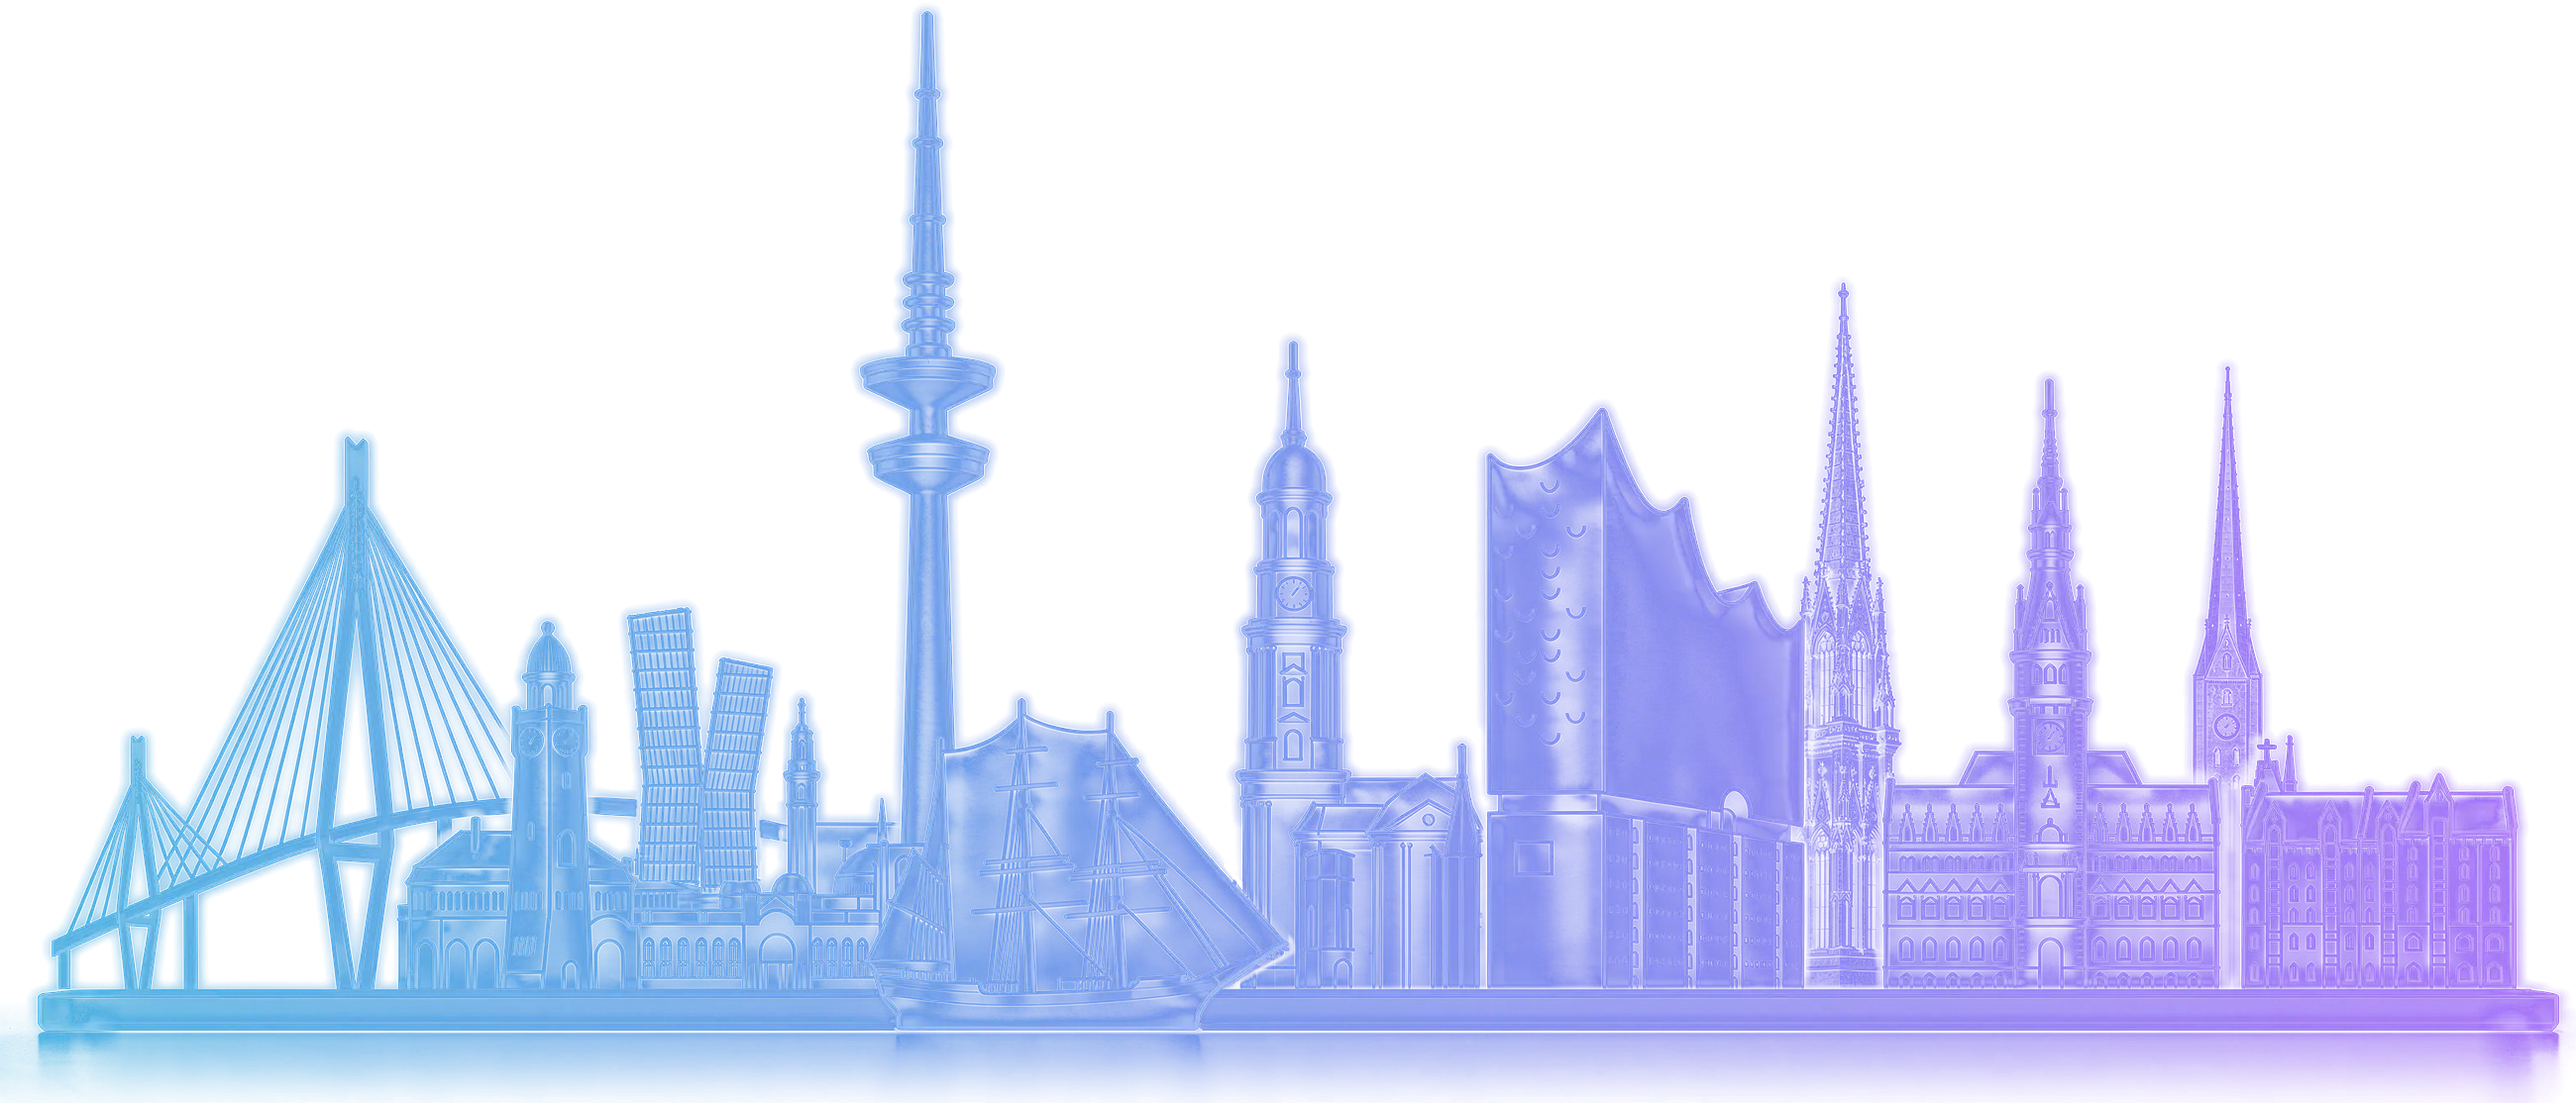
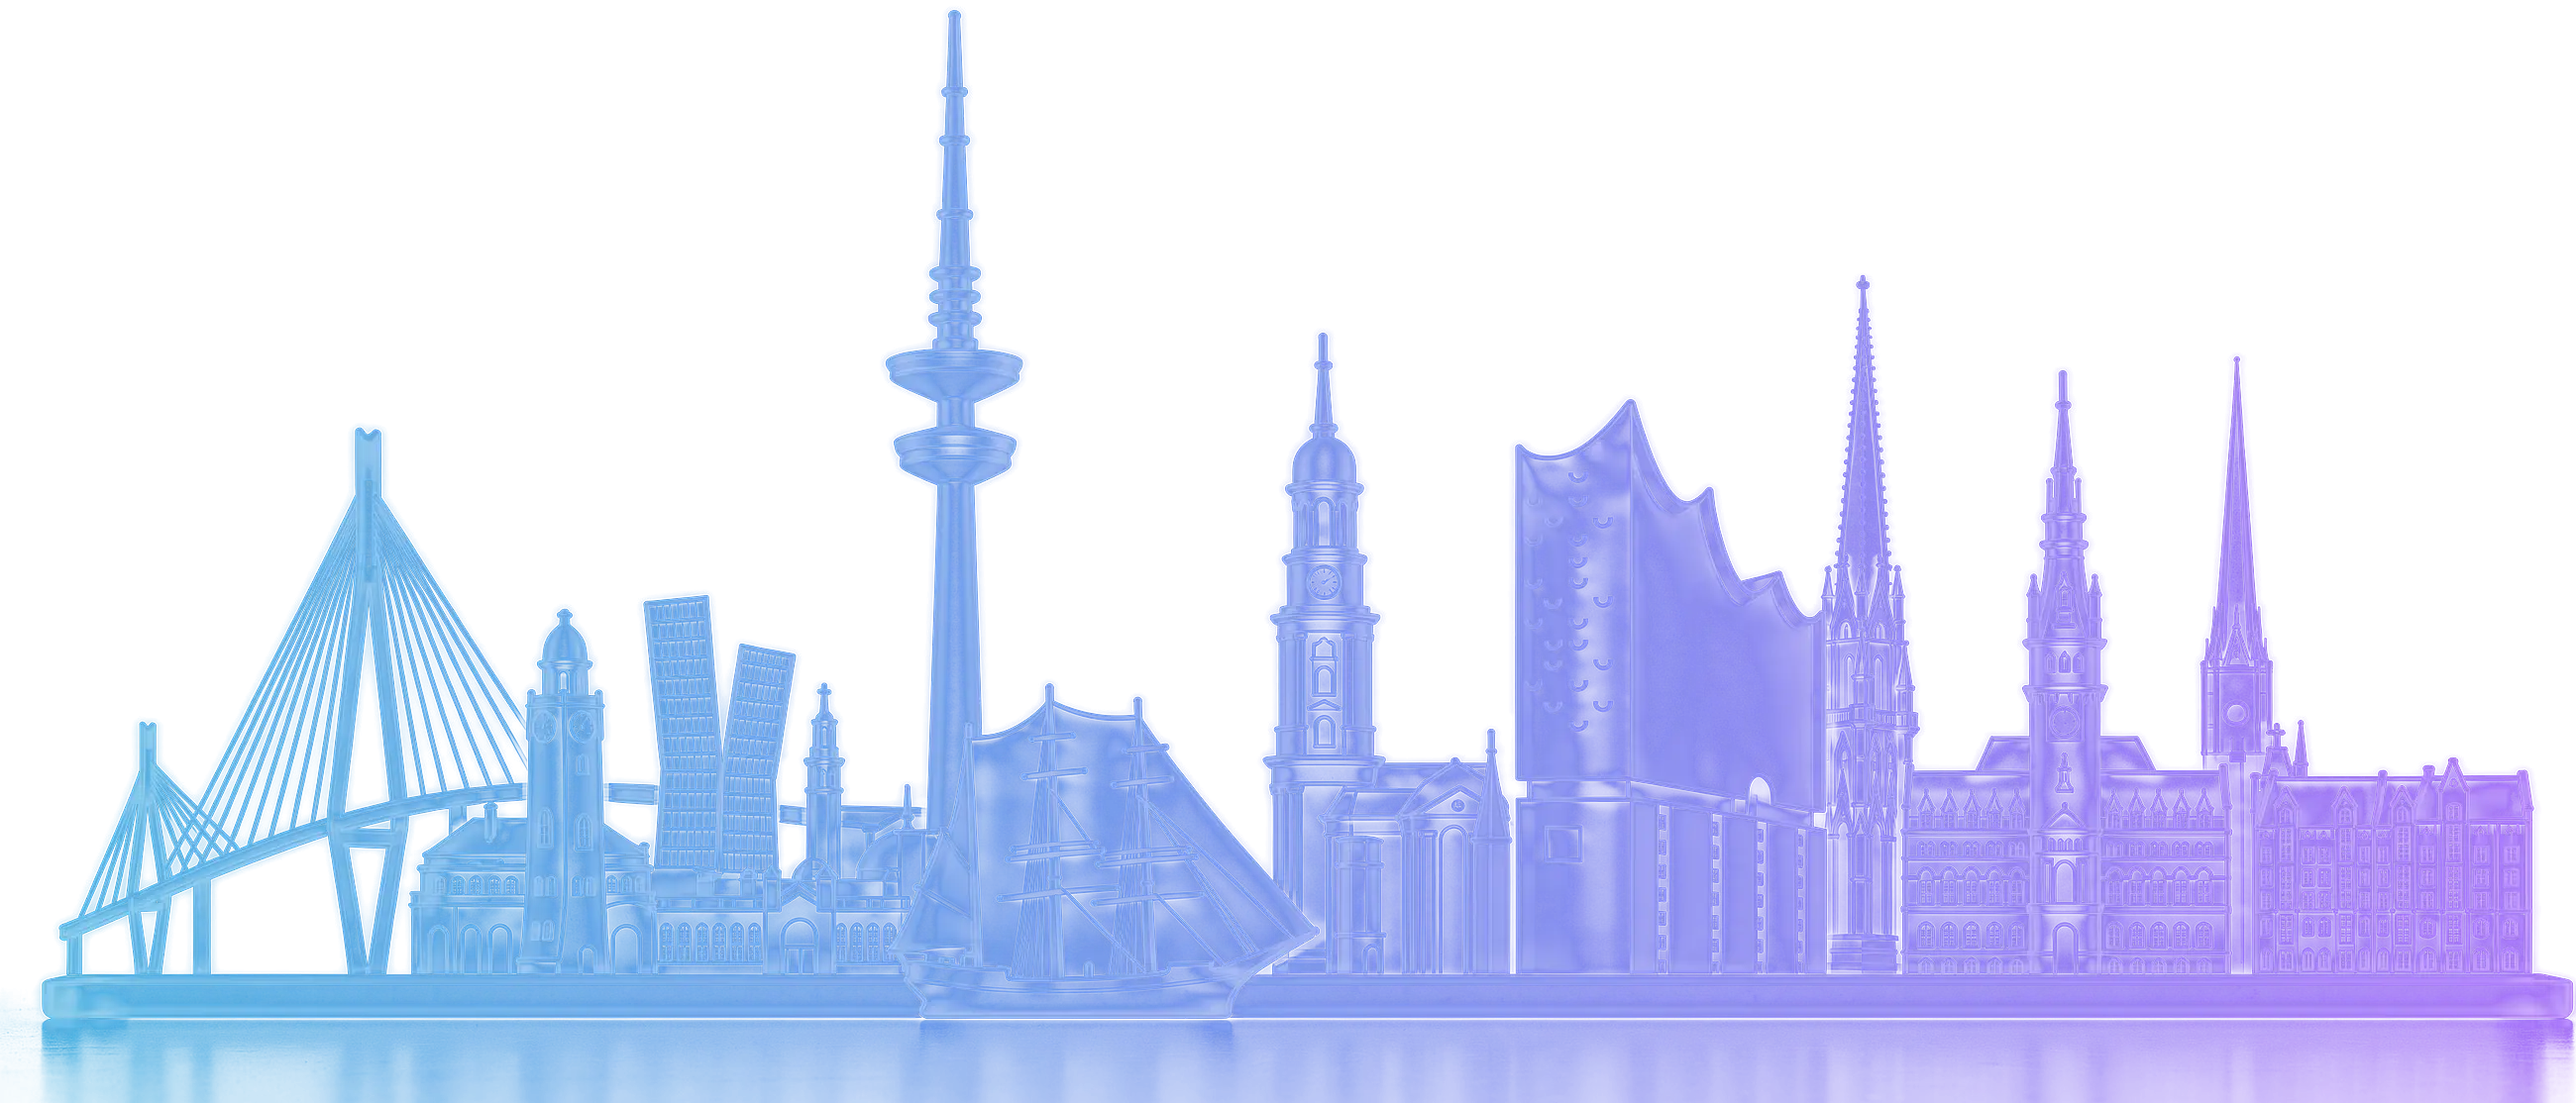
feat(lavender): skyline rendered in one pass from one uniform reference
No hand-made cuts or repairs in the picture any more: the previous
state, softened to one level of detail, was rendered once and taken as
it is.

Claude-Session: https://claude.ai/code/session_01HutgGfgwiiTnT4X53NFX4e

Changed region(s): [[0.0, 0.0, 1.0, 1.0]]

diff --git a/src/components/lavender/HamburgGlass.tsx b/src/components/lavender/HamburgGlass.tsx
@@ -29,16 +29,16 @@ import { cn } from '@/components/ui/utils';
 /** Landmarks left to right: centre x, half width, light centre y, light height (fractions of the image). */
 // From west to east, as the city lies along the Elbe.
 const LANDMARKS = [
-  { x: 0.118, half: 0.09, y: 0.68 }, // Köhlbrandbrücke
-  { x: 0.245, half: 0.09, y: 0.78 }, // Landungsbrücken, dahinter die Tanzenden Türme
-  { x: 0.36, half: 0.03, y: 0.45 }, // Fernsehturm
-  { x: 0.419, half: 0.082, y: 0.78 }, // Rickmer Rickmers
-  { x: 0.52, half: 0.05, y: 0.6 }, // Michel
-  { x: 0.639, half: 0.063, y: 0.64 }, // Elbphilharmonie
-  { x: 0.716, half: 0.03, y: 0.55 }, // St. Nikolai
-  { x: 0.796, half: 0.065, y: 0.64 }, // Rathaus
-  { x: 0.864, half: 0.03, y: 0.55 }, // St. Petri
-  { x: 0.924, half: 0.055, y: 0.8 }, // Speicherstadt
+  { x: 0.125, half: 0.09, y: 0.68 }, // Köhlbrandbrücke
+  { x: 0.24, half: 0.09, y: 0.78 }, // Landungsbrücken, dahinter die Tanzenden Türme
+  { x: 0.371, half: 0.03, y: 0.45 }, // Fernsehturm
+  { x: 0.43, half: 0.082, y: 0.78 }, // Rickmer Rickmers
+  { x: 0.513, half: 0.05, y: 0.6 }, // Michel
+  { x: 0.645, half: 0.063, y: 0.64 }, // Elbphilharmonie
+  { x: 0.725, half: 0.03, y: 0.55 }, // St. Nikolai
+  { x: 0.8, half: 0.065, y: 0.64 }, // Rathaus
+  { x: 0.866, half: 0.03, y: 0.55 }, // St. Petri
+  { x: 0.928, half: 0.055, y: 0.8 }, // Speicherstadt
 ] as const;
 
 /** Where the light is (fractions of the picture), its radius as a fraction of the width, its strength. */

diff --git a/docs/design-migration.md b/docs/design-migration.md
@@ -220,8 +220,9 @@ Stand:
       (NightFooter.tsx: Schlusszeile, Glas-Skyline, Leiste mit „Based in Hamburg.“, Impressum,
       Datenschutz, LinkedIn, Nach oben) statt `ClosingBlock` / `Footer`. Sprünge zu Abschnitten
       laufen über `glide.ts` (folgt dem Ziel, auch wenn sich die Seite verschiebt). Die Skyline
-      ist eine neue Fassung (FLORA, FLUX 3; 2600 × 1114; Stand 13.11. nachmittags, in einem Stück
-      gerendert, nichts von Hand ausgeschnitten): von West nach Ost Köhlbrandbrücke,
+      ist eine neue Fassung (FLORA, FLUX 3; 2600 × 1114; Stand 13.11. nachmittags: in einem Zug aus einer
+      einheitlich weichgezeichneten Vorlage gerendert und unverändert übernommen. Merke: Vorlagen
+      aus ausgeschnittenen Teilen übernimmt FLUX samt Schnittkanten, das Ergebnis wirkt wie Patchwork): von West nach Ost Köhlbrandbrücke,
       Landungsbrücken, dahinter die Tanzenden Türme, Fernsehturm, Rickmer Rickmers, Michel,
       Elbphilharmonie, dahinter St. Nikolai, Rathaus, dahinter St. Petri, Speicherstadt. Die
       Gebäude überlappen sich wieder in der Tiefe. Im Hero tritt die Stadt nur direkt hinter dem
